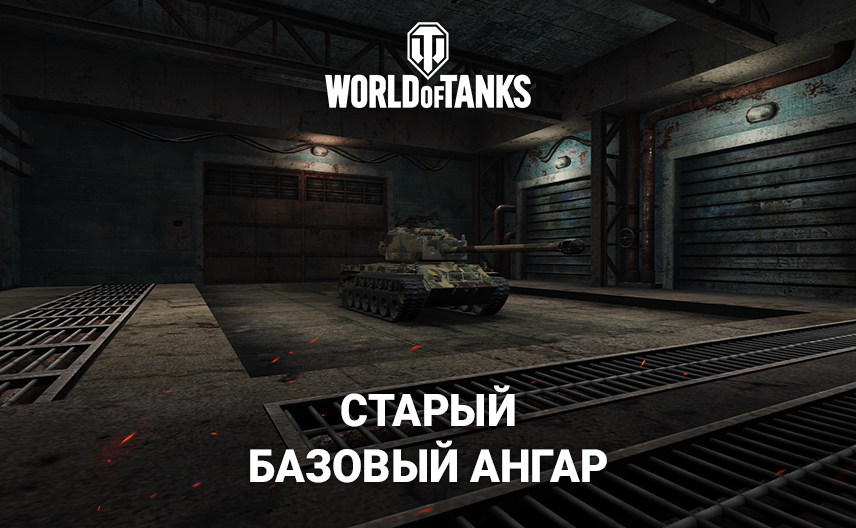
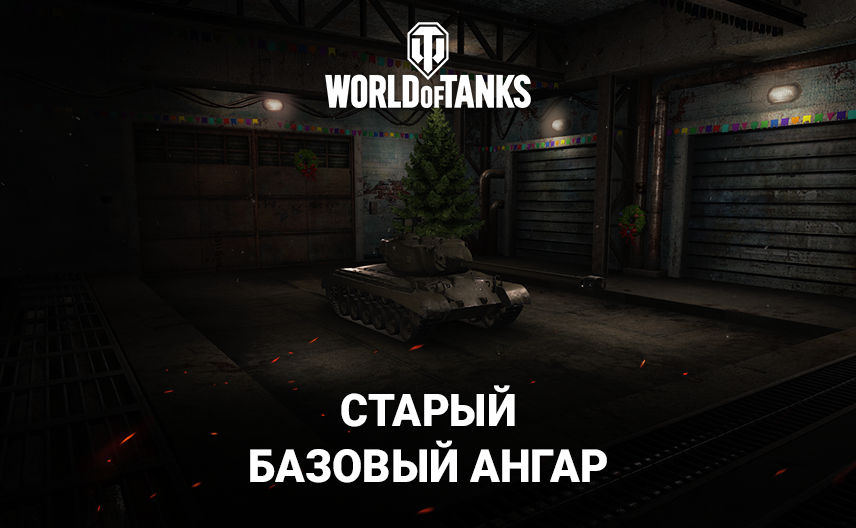
Декабрьское обновление

diff --git a/_layouts/mods.html b/_layouts/mods.html
@@ -35,8 +35,9 @@ layout: default
             <div class="b4r r-img-text">
                 {% include block.html url="https://drive.google.com/file/d/18uut77Ka6M8BqpbhhpQijIVNfYwm81yK/view?usp=drive_link" image="/assets/img/mods/login.png" width="214" height="132" %}
                 {% include block.html url="https://drive.google.com/drive/folders/1Bv_BxHXXZtcuftR0zf5U_wzCYpRENtWl?usp=drive_link" image="/assets/img/mods/hangar_gui.png" width="214" height="132" %}
-                {% include block.html url="https://drive.google.com/file/d/1OYkmN_9_89XFvOufznUV6WdN2uyox2ol/view?usp=drive_link" image="/assets/img/mods/hangar.png" width="214" height="132" %}
-                {% include block.html url="https://drive.google.com/file/d/1Ta025dLowoof9NFmVHwkehmP0GIuuihq/view?usp=drive_link" image="/assets/img/mods/prem_hangar.png" width="214" height="132" %}
+                {% include block.html url="https://drive.google.com/file/d/1OYkmN_9_89XFvOufznUV6WdN2uyox2ol/view?usp=drive_link" image="/assets/img/mods/hangar.png" width="214" height="132" is_new="true" %}
+                {% include block.html url="https://drive.google.com/file/d/1Ta025dLowoof9NFmVHwkehmP0GIuuihq/view?usp=drive_link" image="/assets/img/mods/prem_hangar.png" width="214" height="132" is_new="true" %}
+                {% include block.html url="https://drive.google.com/file/d/1Ta025dLowoof9NFmVHwkehmP0GIuuihq/view?usp=drive_link" image="/assets/img/mods/ny_hangar.png" width="214" height="132" is_new="true" %}
                 {% include block.html url="https://drive.google.com/file/d/1ZlK4I3VVVll8iPMFChLL5p2yPuCyaT2w/view?usp=drive_link" image="/assets/img/mods/prem_hangar9.22.png" width="214" height="132" %}
                 {% include block.html url="https://drive.google.com/drive/folders/1l6oK5pT5bz550kgIu0jJfkergnX6CZoZ?usp=drive_link" image="/assets/img/mods/battle_gui.png" width="214" height="132" %}
                 {% include block.html url="https://drive.google.com/file/d/1j84yW3UbY5t9Bzd_q6xgQxRA6Tyrf1-1/view?usp=sharing" image="/assets/img/mods/ssb.png" width="214" height="132" %}

diff --git a/_posts/2023-12-24-dcmbr-upd.md b/_posts/2023-12-24-dcmbr-upd.md
@@ -1,0 +1,109 @@
+---
+title: Декабрьское обновление модов
+date: 2023-12-24 13:07:05 +0300
+tags: [important]
+category: updates
+image: "/assets/img/news/thumbnail/dcmbr_upd.png"
+image_small: "/assets/img/news/image_small/dcmbr_upd.png"
+---
+<p style="display: none">Последнее, важное для всех нас обновление в этом году. Давайте же праздновать!</p>
+
+{% include yt-embed.html id="nPP7JKXBysU" %}
+
+Танкисты!
+{: style="margin-top: 10px" }
+
+Вот мы и подобрались к итоговому обновлению, подводящему черту работы над нашим проектом в 2023 году. Мы прошли множество испытаний и готовы показать вам множество ожидаемых, и не очень модов. Вперед, время праздновать и ностальгировать!
+
+#### Содержание
+- **[Что нового?](#что-нового)**
+- **[Новогодние ангары](#новогодние-ангары)**
+- **[Террейны](#террейны)**
+- **[Старые добрые звуки](#старые-добрые-звуки)**
+- **[SD-модели](#sd-модели)**
+
+> Обновление модов доступно для скачивания и уствновки в разделе "[Моды]({{ "/mods" | relative_url }})".
+>
+> Если у вас возникли трудности с установкой модов, то предлагаем вам небольшую инструкцию по их установке.
+1. Файлы .wotmod перемистите по данному пути:
+- C:\Games\Tanki\mods\Актуальная версия игры
+2. Файлы папки res_mods переместите по данному пути:
+- C:\Games\Tanki\res_mods\Актуальная версия игры
+> 
+> ---
+>
+> Также вы можете просмотреть [данное видео](https://www.youtube.com/watch?v=XLn-GLCK1Qk) или прочитать [инструкцию]({{ "/guide/qs/mod-install" | relative_url }}), если вам все еще не понятно как устанавливать моды.
+
+## Что нового?
+Три новогодних ангара, которые напомнят ветеранам о днях, когда "трава была зеленее", или лучше сказать, снег был белее... Не важно! Ангары из 2010, 2011 и 2012 уже здесь! Также мод на "Старые террейны" вышел в релиз, но это не значит что мод не будет обновляться. Но вот что точно обновилось - так это старые звуки, множество изменений, которых вы ожидали больше года. И кое-что легендарное... Но, обо всем по порядку.
+
+#### Новогодние ангары
+![нг ангары]({{ '/assets/img/news/mods/ny_hangars.png' | relative_url}}){: .pic-left.orange width="200" }
+
+В новости "[А ты готов к новому году?]({{ "/news/are-you-ready" | relative_url }})" мы рассказывали и показывали вам предстоящие ангары на протяжении первой половины декабря. Но теперь пришло время вам опробовать их! Много рассказывать про них не надо, подробнее вы можете узнать из статьи указанной выше, а новые скриншоты вы увидите чуть ниже. 
+
+[![ангар1]({{ '/assets/img/news/screens/ny_10.png' | relative_url}}){: width="100%" }](/assets/img/news/screens/ny_10.png)
+[![ангар2]({{ '/assets/img/news/screens/ny_11.png' | relative_url}}){: width="100%" }](/assets/img/news/screens/ny_11.png)
+[![ангар3]({{ '/assets/img/news/screens/ny_12.png' | relative_url}}){: width="100%" }](/assets/img/news/screens/ny_12.png)
+
+---
+
+#### Террейны
+[![террейны]({{ '/assets/img/news/mods/old_flora.png' | relative_url}}){: .pic-right.orange width="200" }](https://drive.google.com/file/d/1FmohmS9sjSlitiQzPuboNxT1bLcsdWug/view?usp=sharing)
+Обновление 2.0 знаменует релиз мода на "старые террейны", мы переработали: 
+- Тихий берег
+- Лассвиль
+- Линию Зигфрида
+
+А также были добавлены: 
+- Мурованка
+- Оверлорд
+- Небельбург
+- Клондайк
+- Промзона
+
+---
+
+#### Старые добрые звуки
+![звуки]({{ '/assets/img/news/mods/ogs_release.png' | relative_url}}){: .pic-left.orange width="200" }
+Теперь, когда все проблемы по зади, мы можем взяться за старые звуки по полной. Выходит первое глобальное обновление вашего любимого звукового мода, которое включает в себя различные фиксы багов годовалой давности, а также нововведения, которые раньше вы не слышали! 
+
+А теперь, подробнее о изменениях: 
+
+- Мод переименован в "Старые добрые звуки". 
+- Старые реплики экипажа доступны в тестовом режиме, в будущем будут реализованы реплики всех наций. 
+- Добавлен скриптовый помощник для корректной работы звука перезарядки. 
+- Поверхностно исправлена работа двигателей, звуки гусениц отправлены на переработку. 
+- Исправлена недоработка, при которой воспроизводился сплеш от арты из нынешних версий. 
+- Нормализована работа звуков интерфейса, сведения и перезарядки. 
+- Звуки выстрелов орудий калибром от 105 мм до 115 мм возвращены в расширенную группу средних калибров. 
+- Музыка экрана логина отправлена на переработку. 
+- Добавлена поддержка карт, вышедших после августа 2023 года и поддержка зимних саундтреков к картам.
+{: style="margin-left: 205px;" }
+
+---
+
+#### SD-модели
+![SD]({{ '/assets/img/news/mods/sd_wt.png' | relative_url}}){: .pic-right.orange width="200" }
+
+Да, это они! Но с одним "но", это альфа-тест который включает в себя практически все танки из ветки прокачки техники СССР. Здесь и легендарные КВ-2, ИС-7, любимец многих артоводов тех лет Объект 261 и прочая легендарная техника!
+
+И куда же без любимчика всего RUBY-региона? SD-модель Waffenträger auf E100. Те, кто её получил можете возрадоваться! А те, кто видят её лишь в бою у союзника или противника - вздохнуть... Но не время унывать, ведь получить свою "вафлю" все еще возможно!
+
+{: .message-error}
+Важно! Так как это альфа-тест, то мы НЕ несем ответственность за вылеты или лаги игры. Не стоит наносить какой либо камуфляж на технику, это может привести к вылету игры. В будущем мы постараемся все это починить, следите за новостями. 
+
+---
+
+Обратите внимание:  
+{: .message-info}
+  - Моды на WGMods могут модерироваться несколько дней, это не зависит от нас.
+  - Все моды вы ставите на свой страх и риск.
+  - О обновлении модификаций будет сказано в нашей группе ВКонтакте, на Discord-сервере, форумах и в соц. сетях.
+  {: style="top: -47px; left: 38px; position: relative;"}
+
+На этой ноте мы закрываем 2023 год, в 2024 нас ждет множество вещей, о которых вы нас давно просили и то, что явно повергнет вас в шок, ждать осталось совсем немного, наберитесь терпения и в бой! Исследовать новые, но такие ламповые локации нашей игры вместе с модификациями «WoT это Классика!».
+{: style="top: -47px; position: relative;"}
+
+##### ***До встречи в 2024 и удачи на полях сражений, танкисты!***
+{: style="top: -47px; position: relative; margin-bottom: -55px;"}

diff --git a/_archive/sounds/1.0.md b/_archive/sounds/1.0.md
@@ -1,0 +1,16 @@
+---
+title: 'Обновление 1.0'
+category: sounds
+---
+
+![Placeholder]({{ '/assets/img/news/hrs/main.jpg' | relative_url }})
+
+- Мод переименован в "Старые добрые звуки". 
+- Старые реплики экипажа доступны в тестовом режиме, в будущем будут реализованы реплики всех наций. 
+- Добавлен скриптовый помощник для корректной работы звука перезарядки. 
+- Поверхностно исправлена работа двигателей, звуки гусениц отправлены на переработку. 
+- Исправлена недоработка, при которой воспроизводился сплеш от арты из нынешних версий. 
+- Нормализована работа звуков интерфейса, сведения и перезарядки. 
+- Звуки выстрелов орудий калибром от 105 мм до 115 мм возвращены в расширенную группу средних калибров. 
+- Музыка экрана логина отправлена на переработку. 
+- Добавлена поддержка карт, вышедших после августа 2023 года и поддержка зимних саундтреков к картам.

diff --git a/_posts/2023-12-24-dcmbr-stream.md b/_posts/2023-12-24-dcmbr-stream.md
@@ -1,0 +1,15 @@
+---
+title: "Обзор декабрьского обновления и планы на 2024: смотрим обсуждаем у Pbody -iwnl-"
+date: 2023-12-24 13:08:05 +0300
+category: announcements
+image: "/assets/img/news/thumbnail/video_icon_new_127x.jpg"
+---
+<p style="display: none">Празднование началось! На прямой трансляции от Pbody -iwnl- мы посмотрим на декабрьское обновление и раскроем некоторые планы на предстоящий год.</p>
+
+![techwork]({{ '/assets/img/news/header/dcmbr_upd.png' | relative_url }})
+
+Танкисты!
+
+Мы начали праздновать новогодние праздники, а вы уже начали скачивать наши праздничные моды! Но а пока вы ждете, заходите на стрим к Pbody -iwnl-, где будут некоторые разработчики ваших любимых модов! Мы ответим на некоторые вопросы, а также поделимся планами на будущее. Будет жарко, но интересно!
+
+{% include yt-embed.html id="O_UxsEArSNo" %}

diff --git a/modders.md b/modders.md
@@ -27,5 +27,5 @@ last_modified_at: 2023-11-16
 - **Leonardo_Shpah** – отвечает за ангары и скайбоксы, помощь с интерфейсом.
 - **test_account_01** - помощь с ангарами.
 - **Russian_soldiers** – отвечает за web-часть интерфейсных модов.
-- **Konstant** и **S.T.A.L.K.E.R.4.I.K.** – создание SD-моделей.
+- **S.T.A.L.K.E.R.4.I.K.** – создание SD-моделей.
 - [**A1Asriel**](https://a1asriel.github.io/about) - создание и обслуживание веб-портала, помощь по скриптовым модам, мэйнтейнер Discord-сервера, редактор.

diff --git a/_posts/2023-09-30-sptmbr-upd.md b/_posts/2023-09-30-sptmbr-upd.md
@@ -35,8 +35,6 @@ image_small: "/assets/img/news/image_small/sptmbr_upd.png"
 2. Файлы папки res_mods переместите по данному пути:
 - C:\Games\Tanki\res_mods\Актуальная версия игры
 > 
-> На этом все, начинается прекрасная весенняя пора и самое время немножечко окунуться в ностальгию.
->
 > ---
 >
 > Также вы можете просмотреть [данное видео](https://www.youtube.com/watch?v=XLn-GLCK1Qk) если вам все еще не понятно как устанавливать моды.

diff --git a/_posts/2022-09-28-sept-upd.md b/_posts/2022-09-28-sept-upd.md
@@ -23,7 +23,7 @@ image_small: "/assets/img/news/image_small/sept_upd.png"
 2. Файлы папки res_mods переместите по данному пути:
 - C:\Games\Tanki\res_mods\Актуальная версия игры
 > 
-> На этом все, начинается прекрасная весенняя пора и самое время немножечко окунуться в ностальгию.
+> ---
 >
 > Также вы можете просмотреть [данное видео](https://www.youtube.com/watch?v=XLn-GLCK1Qk) если вам все еще не понятно как устанавливать моды.
 

diff --git a/_posts/2023-03-12-march-upd.md b/_posts/2023-03-12-march-upd.md
@@ -23,7 +23,7 @@ image_small: "/assets/img/news/image_small/mrch_upd.png"
 2. Файлы папки res_mods переместите по данному пути:
 - C:\Games\Tanki\res_mods\Актуальная версия игры
 > 
-> На этом все, начинается прекрасная весенняя пора и самое время немножечко окунуться в ностальгию.
+> ---
 >
 > Также вы можете просмотреть [данное видео](https://www.youtube.com/watch?v=XLn-GLCK1Qk) если вам все еще не понятно как устанавливать моды.
 

diff --git a/_posts/2023-05-04-may-upd.md b/_posts/2023-05-04-may-upd.md
@@ -23,7 +23,7 @@ image_small: "/assets/img/news/image_small/may_upd.png"
 2. Файлы папки res_mods переместите по данному пути:
 - C:\Games\Tanki\res_mods\Актуальная версия игры
 > 
-> На этом все, начинается прекрасная весенняя пора и самое время немножечко окунуться в ностальгию.
+> ---
 >
 > Также вы можете просмотреть [данное видео](https://www.youtube.com/watch?v=XLn-GLCK1Qk) если вам все еще не понятно как устанавливать моды.
 

diff --git a/_posts/2023-01-09-jan-upd.md b/_posts/2023-01-09-jan-upd.md
@@ -25,6 +25,8 @@ image_small: "/assets/img/news/image_small/jan_upd.png"
 > 
 > На этом все, начинается прекрасная весенняя пора и самое время немножечко окунуться в ностальгию.
 >
+> ---
+>
 > Также вы можете просмотреть [данное видео](https://www.youtube.com/watch?v=XLn-GLCK1Qk) если вам все еще не понятно как устанавливать моды.
 
 ## Что нового?

diff --git a/archive.md b/archive.md
@@ -15,7 +15,7 @@ permalink: /updates
 - «Старый интерфейс боя»
 - «Старые скайбоксы»
 - «Старые террейны»
-- «Старые звуки всего»
+- «Старые добрые звуки»
 - «Старые эффекты»
 
 Исходя из названия данного раздела не сложно догадаться что здесь будут указываться все изменения наших модов.

diff --git a/_archive/terrain/2.0.md b/_archive/terrain/2.0.md
@@ -1,0 +1,18 @@
+---
+title: Обновление 2.0
+category: terrain
+---
+
+![Placeholder]({{ '/assets/img/news/hrs/main.jpg' | relative_url }})
+
+Переработаны: 
+- Тихий берег
+- Лассвиль
+- Линию Зигфрида
+
+Добавлены: 
+- Мурованка
+- Оверлорд
+- Небельбург
+- Клондайк
+- Промзона
